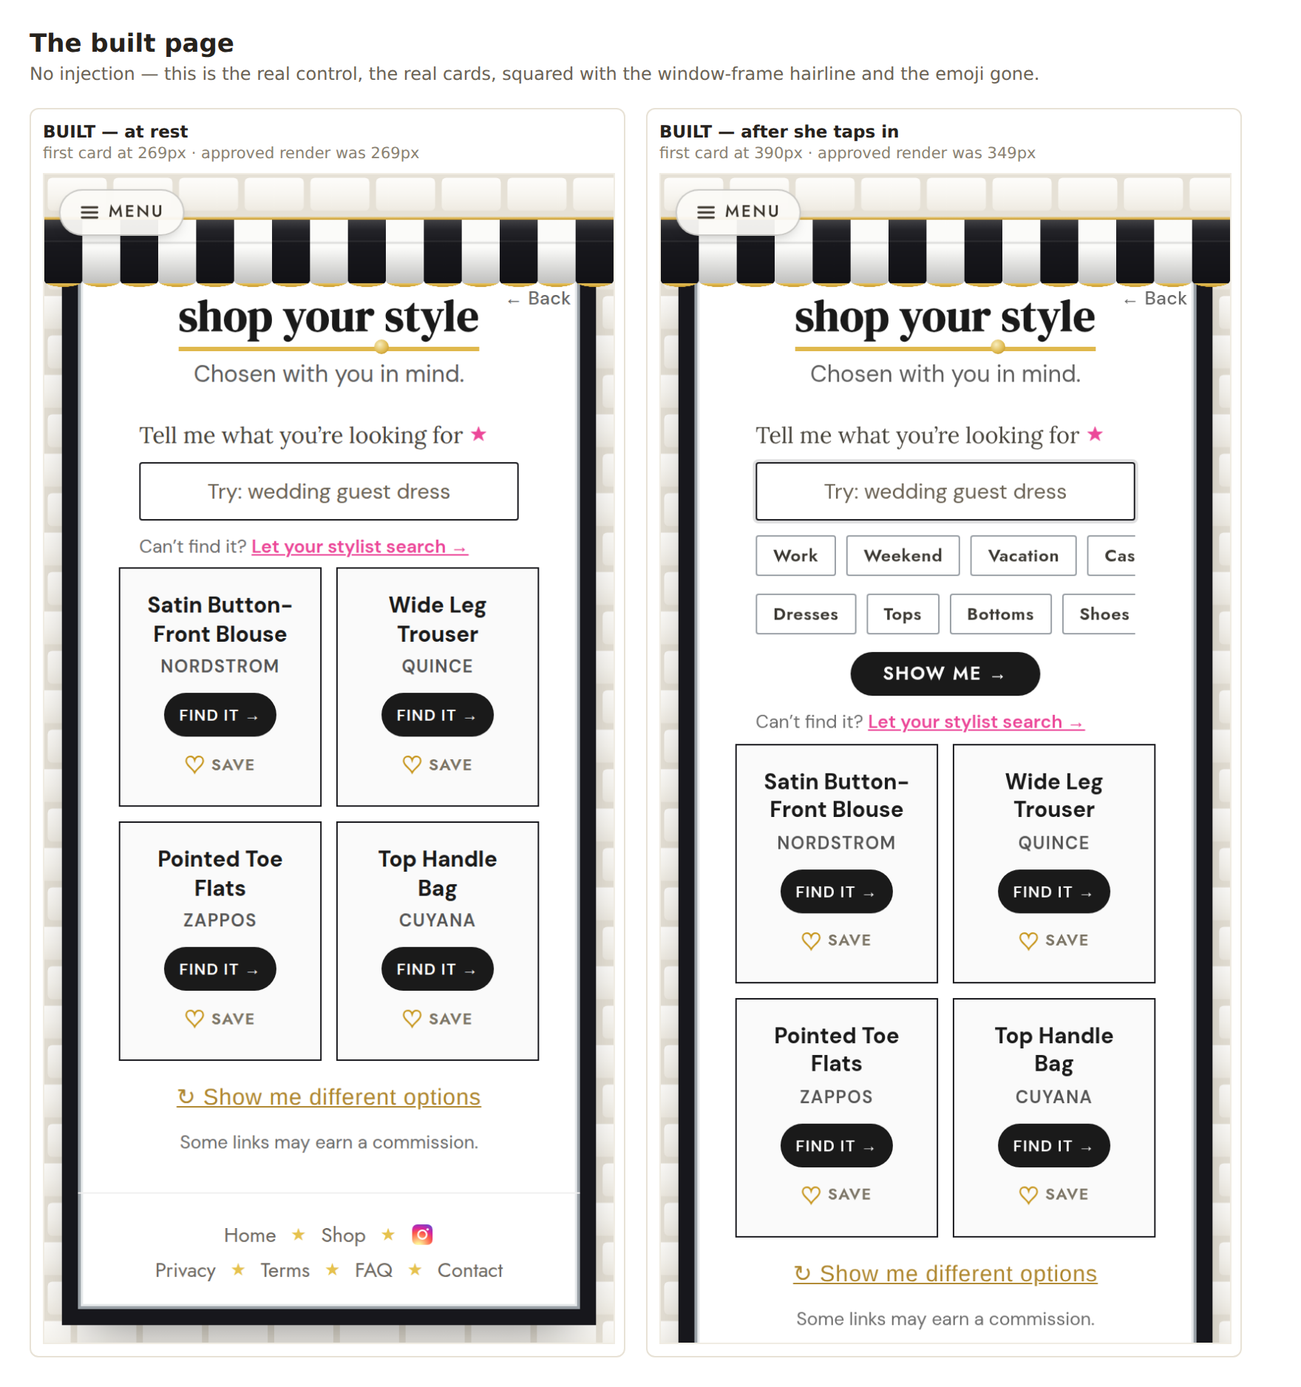
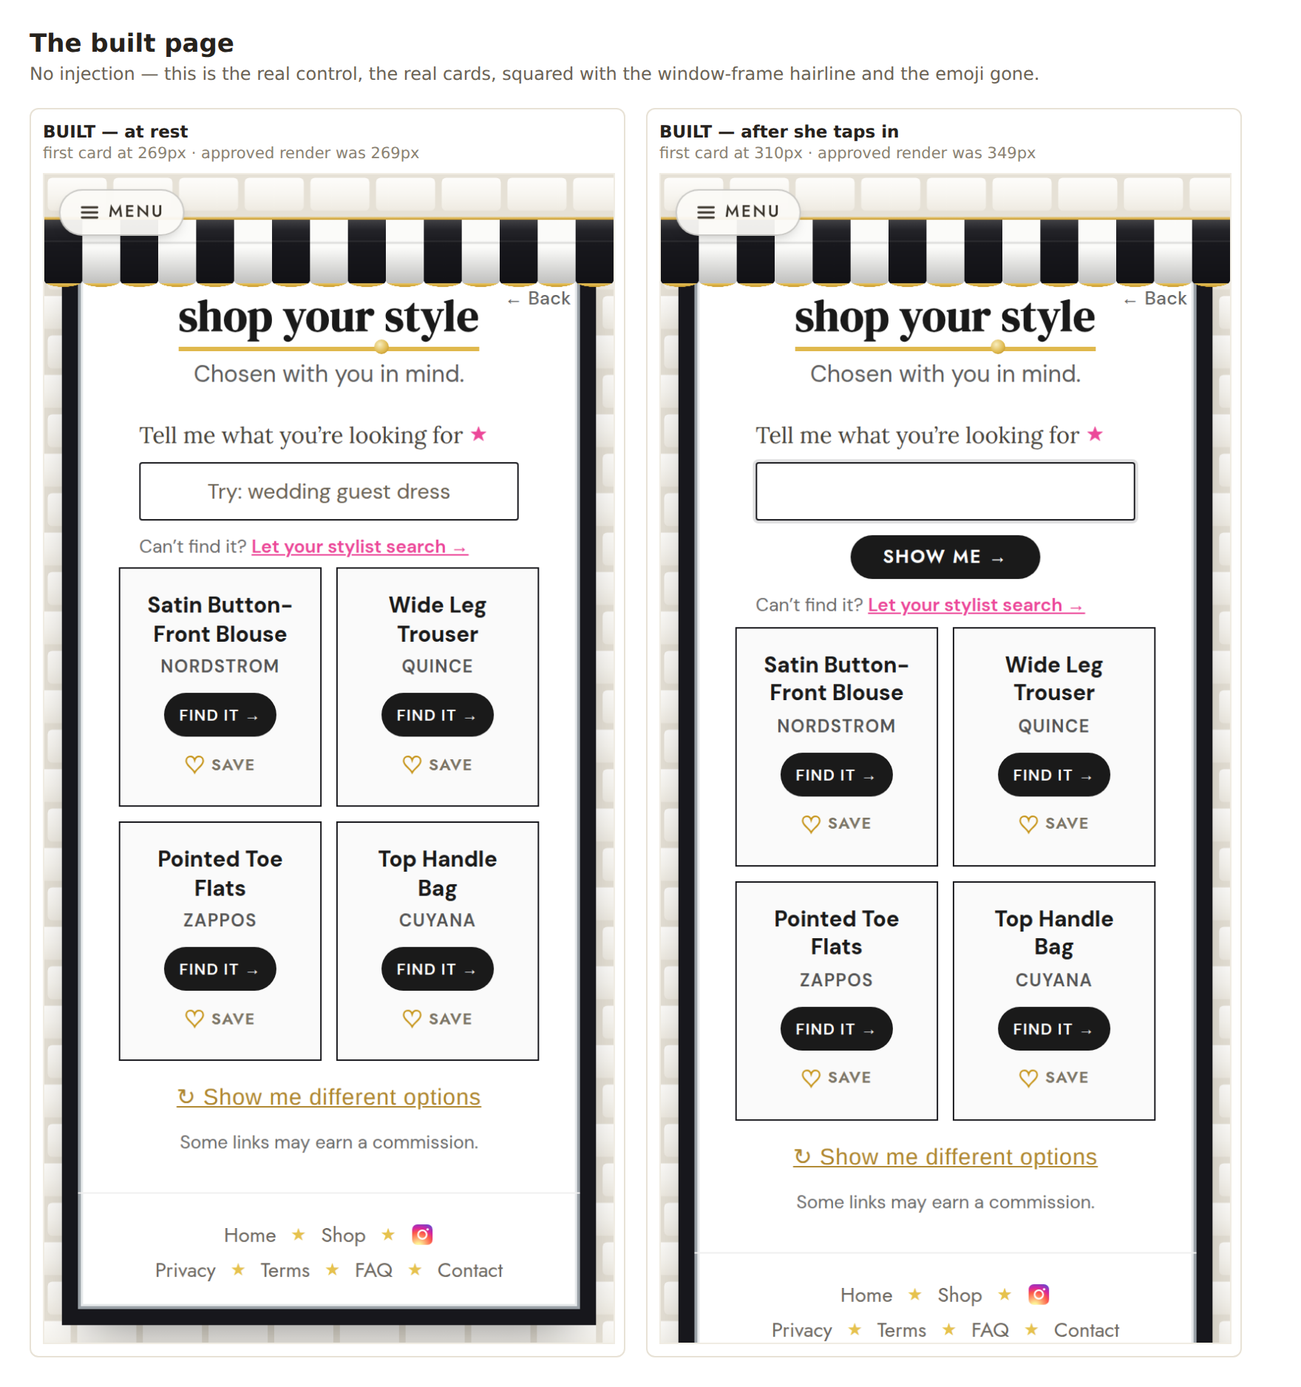
Five fixes from her live test of the ask
1. THE REAL ONE. She typed "bags" and got a dress, trousers, heels, rings and a
blazer. One bag out of six. The cause was not a weak rule, it was a CONTRADICTING
one sitting directly beneath it: "- Mix categories and price points across the 6
items". Telling the model an ask "outranks variety" while the next bullet demands
variety is an argument, not a rule. So the bullet is now REPLACED when she asks,
and the opening sentence reframes the whole task rather than adding a rule at the
bottom. Proven against the live model, two runs each: "bags" returns six bags, "a
floor length gown" six gowns, "white tops under $100" six white tops, and the
no-ask control still returns a proper mix.

2. The control was visible while the star span, so she was offered a box she
could not usefully use yet. It hides with the Back button and the footer now and
comes back with them. This was written into the plan and then not done.

3. The chips are GONE, her call. She typed "white linen dress", tapped Vacation,
and the chip OVERWROTE her sentence. Rather than teach it to append she chose to
drop them and let the rotating example carry the same vocabulary, so occasions
and categories now ride the ring: eleven examples instead of seven.

4. The example clears the moment she taps in and returns if she leaves the box
empty. A centred placeholder really does read as text already in the box.

5. The tapped state drops from 349px to 310px with the chip rows gone.

63 checks green.
[…]

Changed region(s): [[0.5625, 0.3401, 0.875, 0.9584]]

diff --git a/index.html b/index.html
@@ -1077,16 +1077,11 @@ html.edit-velvet,html.edit-velvet body{background:#0E7F8C}
    pass found the add-your-own placeholder at 2.73:1 and it was the one thing
    telling her the field existed. An invitation, not a hint. */
 #s-shopstyle #ssAskIn::placeholder{color:#6b6355}
-#s-shopstyle .sa-row{display:flex;gap:7px;overflow-x:auto;padding:2px 0;flex-wrap:nowrap;margin-top:8px;-webkit-overflow-scrolling:touch}
-/* Her pick from five rendered options, 2026-08-21: the gold chips read "bronzey"
-   and fought the screen — her own store-window reasoning one element further on.
-   #9AA0A6 is the display-case silver already used on the Contact page cards, so it
-   is not a new colour either, and it sits deliberately QUIETER than the black box
-   above: the box is the thing to use, the chips only help her fill it. Label ink
-   11.33:1, against gold's 5.05:1.
-   ⚠ Outline, NOT filled: solid black chips compete with the SHOW ME button directly
-   beneath them and the Find it pills below that. Rendered and rejected. */
-#s-shopstyle .sa-chip{font:600 12px/1 'Jost',sans-serif;letter-spacing:.03em;color:#3d3a34;padding:7px 11px;border:1px solid #9AA0A6;border-radius:2px;background:#fff;white-space:nowrap;cursor:pointer;flex:0 0 auto;-webkit-tap-highlight-color:transparent}
+/* The chip rows were built, rendered five ways, coloured to her pick, and then
+   RETIRED on her live test the same day: she typed "white linen dress", tapped
+   Vacation, and the chip overwrote her sentence. Her call was to drop them rather
+   than teach them to append, and to let the rotating example carry the same
+   vocabulary instead — which is why the ring now holds occasions and categories. */
 #s-shopstyle .sa-go{display:block;margin:10px auto 0;background:#1a1a1a;color:#fff;border:none;border-radius:20px;padding:9px 22px;font:600 12.5px/1 'Jost',sans-serif;letter-spacing:.07em;cursor:pointer}
 #s-shopstyle .sa-esc{font-size:12.5px;color:#6e6e6e;margin-top:9px;line-height:1.55}
 #s-shopstyle .sa-esc span{color:#EC4899;font-weight:600;text-decoration:underline;cursor:pointer}
@@ -3921,10 +3916,18 @@ body.ss-play .hm-entrance{animation:ssOverlayOut .55s ease 1.6s forwards}
          mark system: the heart means SHE is speaking, the star means the stylist is
          working — which is why the loading star on this same screen is pink. -->
     <div class="sa-vox">Tell me what you&rsquo;re looking for<svg class="sa-star" viewBox="0 0 76 76" aria-hidden="true"><polygon points="38,4 46,25 68,25 50.5,38.5 57.5,60 38,47 18.5,60 25.5,38.5 8,25 30,25" fill="#EC4899" stroke="#EC4899" stroke-width="2" stroke-linejoin="round"/></svg></div>
-    <input id="ssAskIn" type="text" maxlength="80" autocomplete="off" enterkeyhint="go" aria-label="Tell me what you're looking for" onfocus="_ssAskOpen(true)" oninput="_ssAskOpen(true)" onkeydown="if(event.key==='Enter'){event.preventDefault();ssAskGo()}">
+    <!-- ⚠ The example clears the moment she taps in, and comes back if she leaves the
+         box empty. Her live test, 2026-08-21: "when I put the cursor inside the box to
+         start typing I would like the Try: jeans to go away. It stays there until I
+         start typing and didn't let me delete it so that felt very awkward." A centred
+         placeholder really does read as text that is already in the box. -->
+    <input id="ssAskIn" type="text" maxlength="80" autocomplete="off" enterkeyhint="go" aria-label="Tell me what you're looking for" onfocus="_ssAskFocus(1)" onblur="_ssAskFocus(0)" onkeydown="if(event.key==='Enter'){event.preventDefault();ssAskGo()}">
+    <!-- The chip rows are GONE, her call after testing them: she typed "white linen
+         dress", tapped Vacation, and the chip REPLACED her sentence. A control that
+         silently destroys what she just wrote is worse than no control. Rather than
+         teach it to append, she chose to drop the chips and let the rotating example
+         carry the same vocabulary — so occasions and categories now ride the ring. -->
     <div id="ssAskMore" style="display:none">
-      <div class="sa-row" id="ssAskOcc"></div>
-      <div class="sa-row" id="ssAskCat"></div>
       <button class="sa-go" onclick="ssAskGo()">SHOW ME &rarr;</button>
     </div>
     <div class="sa-esc">Can&rsquo;t find it? <span onclick="openChat()">Let your stylist search &rarr;</span></div>
@@ -6906,9 +6909,13 @@ function styleNudgeSkip(){try{localStorage.setItem('ss_stylenudge','1')}catch(e)
 var _ASK_RING=[
   'Try: wedding guest dress',
   'Try: white tops under $100',
+  'Try: something for vacation',
   'Try: jeans',
+  'Try: work outfits',
   'Try: tan sandals',
+  'Try: something formal',
   'Try: a floor length gown',
+  'Try: weekend casual',
   'Try: silk blouse',
   'Try: tote bag'
 ];
@@ -6917,13 +6924,6 @@ var _ASK_RING=[
 // what makes "For an event" safe rather than vague: an event is a garden party
 // or a black-tie gala, so she finishes the sentence instead of the model guessing
 // a formality level. It also keeps one code path instead of two.
-// ⭐ Both rows are hers too. ⚠ Note what she did to the occasion row: "For an event"
-// is GONE, replaced by "Something formal" — that was the chip flagged as ambiguous
-// (a garden party and a black-tie gala are both events) and she resolved it by naming
-// the FORMALITY instead of the occasion. Sharper than any wording tweak would have
-// been. She also swapped "Jackets" for "Accessories" in the category row.
-var _ASK_OCC=['Work','Weekend','Vacation','Casual life','Something formal'];
-var _ASK_CAT=['Dresses','Tops','Bottoms','Shoes','Bags','Accessories'];
 // ⚠ SCOPE OF THE ASK, and it matters: it survives "Show me different options"
 // (a refresh of "floor length gown" must return more gowns, not six random
 // things), but it is CLEARED every time the screen is opened. _openShopStyleNow
@@ -6931,11 +6931,6 @@ var _ASK_CAT=['Dresses','Tops','Bottoms','Shoes','Bags','Accessories'];
 // quietly colour her shopping for weeks.
 var _ssAsk='';
 function _askClean(s){return String(s||'').replace(/[\r\n"]+/g,' ').replace(/\s+/g,' ').trim().slice(0,80);}
-function _askChipsHtml(a){return a.map(function(c){
-  // onmousedown preventDefault holds focus in the box, so the keyboard does not
-  // drop away the moment she taps a chip and she can carry on typing.
-  return '<span class="sa-chip" data-c="'+_esc(c)+'" onmousedown="event.preventDefault()" onclick="ssAskChip(this.dataset.c)">'+_esc(c)+'</span>';
-}).join('');}
 function _syncShopAsk(){
   var el=document.getElementById('ssAsk');if(!el)return;
   _ssAsk='';
@@ -6948,7 +6943,7 @@ function _syncShopAsk(){
   if(inp){
     var i=0;try{i=parseInt(localStorage.getItem('ss_askrot'),10)||0}catch(e){}
     i=((i%_ASK_RING.length)+_ASK_RING.length)%_ASK_RING.length;
-    inp.placeholder=_ASK_RING[i];
+    inp.placeholder=_ASK_RING[i];inp.dataset.eg=_ASK_RING[i];
     // Advanced HERE, on open, and never in _shopStyleGen — so tapping refresh
     // cannot shuffle the placeholder under her fingers (the same reasoning that
     // keeps the subtitle still on a refresh).
@@ -6958,17 +6953,14 @@ function _syncShopAsk(){
   _ssAskOpen(false);
 }
 function _ssAskOpen(on){
-  var m=document.getElementById('ssAskMore');if(!m)return;
-  m.style.display=on?'':'none';
-  if(!on)return;
-  var occ=document.getElementById('ssAskOcc'),cat=document.getElementById('ssAskCat');
-  if(occ&&!occ.dataset.built){occ.innerHTML=_askChipsHtml(_ASK_OCC);occ.dataset.built='1';}
-  if(cat&&!cat.dataset.built){cat.innerHTML=_askChipsHtml(_ASK_CAT);cat.dataset.built='1';}
+  var m=document.getElementById('ssAskMore');if(m)m.style.display=on?'':'none';
 }
-function ssAskChip(t){
+// The example clears on focus and returns if she leaves the box empty. A centred
+// placeholder reads as text already typed, which is exactly how it felt to her.
+function _ssAskFocus(on){
   var inp=document.getElementById('ssAskIn');if(!inp)return;
-  inp.value=String(t||'').toLowerCase()+' ';
-  try{inp.focus();inp.setSelectionRange(inp.value.length,inp.value.length);}catch(e){}
+  if(on){inp.dataset.eg=inp.placeholder||inp.dataset.eg||'';inp.placeholder='';_ssAskOpen(true);}
+  else if(!inp.value.trim()){inp.placeholder=inp.dataset.eg||'';}
 }
 function ssAskGo(){
   var scr=document.getElementById('s-shopstyle');
@@ -6986,6 +6978,24 @@ function ssAskGo(){
 // ⭐ The range clause is the answer to "is 'for an event' too vague?" — a broad
 // ask is covered ACROSS the six rather than guessed at once, so ambiguity becomes
 // a spread she can choose from instead of a wrong single answer.
+// 🚨 HER LIVE TEST FOUND THIS AND IT IS THE REAL ONE: she typed "bags" and got a
+// dress, trousers, heels, rings and a blazer. ONE bag out of six.
+// The cause was not a weak rule, it was a CONTRADICTING one sitting directly beneath
+// it: "- Mix categories and price points across the 6 items". Telling the model the
+// ask "outranks variety" while the very next bullet demands variety is not a rule,
+// it is an argument. So when there is an ask the bullet is REPLACED, and the task is
+// reframed in the opening sentence too — placement carries as much weight as wording
+// here, the same lesson as the work-appropriate dresses definition.
+function _mixRule(){
+  return _ssAsk
+    ? '- Vary the price points and the stores across the 6, but every single one must be the thing she asked for\n'
+    : '- Mix categories and price points across the 6 items\n';
+}
+function _askedForLead(){
+  return _ssAsk
+    ? 'This woman is looking for: "'+_ssAsk+'". Suggest 6 specific shoppable pieces that are exactly that, chosen to suit her style.'
+    : 'Based on this woman\'s style, suggest 6 specific shoppable items she would genuinely love.';
+}
 function _askedForRule(){
   if(!_ssAsk)return '';
   return '- SHE HAS ASKED FOR SOMETHING SPECIFIC: "'+_ssAsk+'". Every one of the 6 picks must answer that ask directly, and this outranks mixing categories for variety. If she named a garment, return that garment. If she named a price, stay under it. If she named an occasion, dress her for it, and when that occasion could mean several levels of formality (an event can be a garden party or a black tie gala), COVER THE RANGE across the 6 rather than guessing one point on it. This rule is absolute.\n';
@@ -7019,6 +7029,11 @@ async function _shopStyleGen(){
   var talk=document.querySelector('#s-shopstyle .ss-shop-talk');if(talk)talk.classList.remove('on');
   var gf=document.querySelector('.quiz-footer');if(gf)gf.style.display='none';
   var bk=document.querySelector('#s-shopstyle .top-back-wrap');if(bk)bk.style.display='none';
+  // Her live test, 2026-08-21: "while the star is spinning I can see the Tell me what
+  // you're looking for and the can't find it? But the user needs to wait a moment."
+  // Offering her a box she cannot usefully use yet reads as broken. Hidden with the
+  // Back button and the footer, restored with them — and only in quiz mode.
+  var askEl=document.getElementById('ssAsk');if(askEl)askEl.style.display='none';
   cont.innerHTML='<div class="shop-loading"><div class="shop-star-wrap">'+(_isWL?_SHOP_BAG_SVG:_SHOP_STAR_SVG)+'</div><span id="shopLoadMsg">'+_pickLoadMsg()+'</span></div>';
   _startShopMsgs();
   var basis;
@@ -7049,7 +7064,7 @@ async function _shopStyleGen(){
     prompt='You are Catherine, a personal stylist. This woman shared a photo of an outfit she already owns and loves. Suggest 6 specific shoppable pieces that MIRROR her look — more of the SAME kinds of pieces in the same spirit, so she can repeat a look she already knows is hers.\n\n'+basis+'\n'+_seenPicksLine('ss-'+_shopStyleMode)+'\nWHAT MIRRORING MEANS:\n- Every piece must be the same KIND of garment as something she is wearing, in the same silhouette family and the same energy: if she is wearing a floral midi dress, find more floral or printed midi dresses; a cropped cream jacket, more little cropped jackets like it.\n- Weight the mix toward her main piece: at least 3 of the 6 should echo the biggest garment in her look, the rest can echo her other pieces.\n- Vary the colors and prints within her palette so the six are sisters of her look, not six copies of one item.\n- These are SWAPS and REPEATS, never add-ons: NO bags, jewelry, belts or other accessories unless that accessory is itself the heart of her look. Completing the look is a different button; this one multiplies it.\n\nFor each item provide:\n- category: one of "top","bottom","dress","jacket","shoes","bag","jewelry","activewear"\n'+_shopRules()+'\nRULES:\n- NEVER suggest anything on her never-wear list or that she listed as a hard no. Honor her exact words. This rule is absolute.\n- Name each piece plainly and beautifully, leading with the piece itself, print or silhouette + item, like "Floral Flutter-Sleeve Midi Dress" — never vague, never led by a color unless color is genuinely the point of that piece (and then the search carries the same color), never promising a detail its own search does not carry (the name is the search, written beautifully), and never an imaginary exact product the search cannot deliver\n\nRespond with ONLY valid JSON:\n{"items":[{"category":"dress","name":"Item Name","search":"short search term","store":"Store Name"}]}';
   }else{
     maxTok=700;
-    prompt='You are Catherine, a personal stylist. Based on this woman\'s style, suggest 6 specific shoppable items she would genuinely love.\n\n'+basis+'\n'+_seenPicksLine('ss-'+_shopStyleMode)+'\nFor each item provide:\n- category: one of "top","bottom","dress","jacket","shoes","bag","jewelry","activewear"\n'+_shopRules()+'\nRULES:\n- Match her style\n- NEVER suggest anything on her never-wear list or that she listed as a hard no. Honor her exact words. This rule is absolute.\n'+_colorPrefRule()+_askedForRule()+'- Mix categories and price points across the 6 items\n- Name each piece plainly and beautifully, leading with the piece itself, fabric or silhouette + item, like "Mock-Neck Knit Tank" — never vague ("a nice top"), never led by a color unless color is genuinely the point of that piece (and then the search carries the same color), never promising a detail its own search does not carry (the name is the search, written beautifully), and never an imaginary exact product the search cannot deliver\n\nRespond with ONLY valid JSON:\n{"items":[{"category":"top","name":"Item Name","search":"short search term","store":"Store Name"}]}';
+    prompt='You are Catherine, a personal stylist. '+_askedForLead()+'\n\n'+basis+'\n'+_seenPicksLine('ss-'+_shopStyleMode)+'\nFor each item provide:\n- category: one of "top","bottom","dress","jacket","shoes","bag","jewelry","activewear"\n'+_shopRules()+'\nRULES:\n- Match her style\n- NEVER suggest anything on her never-wear list or that she listed as a hard no. Honor her exact words. This rule is absolute.\n'+_colorPrefRule()+_askedForRule()+_mixRule()+'- Name each piece plainly and beautifully, leading with the piece itself, fabric or silhouette + item, like "Mock-Neck Knit Tank" — never vague ("a nice top"), never led by a color unless color is genuinely the point of that piece (and then the search carries the same color), never promising a detail its own search does not carry (the name is the search, written beautifully), and never an imaginary exact product the search cannot deliver\n\nRespond with ONLY valid JSON:\n{"items":[{"category":"top","name":"Item Name","search":"short search term","store":"Store Name"}]}';
   }
   try{
     var r=await fetch("/.netlify/functions/style-ai",{method:"POST",headers:{"Content-Type":"application/json"},body:JSON.stringify({max_tokens:maxTok,messages:[{role:"user",content:prompt}]})});
@@ -7082,11 +7097,13 @@ async function _shopStyleGen(){
     if(talk)talk.classList.add('on');
     if(gf)gf.style.display='';
     if(bk)bk.style.display='';
+    if(askEl&&_shopStyleMode==='quiz')askEl.style.display='';
   }catch(e){
     _stopShopMsgs();if(scr)scr.classList.remove('thinking');if(lg)lg.textContent=_isWL?'shop your list':'shop your style';
     cont.innerHTML='<div class="shop-loading">Couldn\'t load options right now.</div><div style="text-align:center;margin-top:8px"><button class="btn-pink" onclick="_shopStyleGen()" style="max-width:200px">Try again</button></div>';
     if(gf)gf.style.display='';
     if(bk)bk.style.display='';
+    if(askEl&&_shopStyleMode==='quiz')askEl.style.display='';
   }
 }
 var _shopMsgT=null;

diff --git a/scratchpad/shopask.js b/scratchpad/shopask.js
@@ -117,21 +117,21 @@ r = await pg.evaluate(() => ({
   occ: [...document.querySelectorAll('#ssAskOcc .sa-chip')].map(e => e.textContent),
   cat: [...document.querySelectorAll('#ssAskCat .sa-chip')].map(e => e.textContent),
 }));
-ok('both chip rows appear on focus', r.shown);
-// Her rows, 2026-08-21. "For an event" is deliberately NOT among them: she replaced
-// it with "Something formal", naming the formality instead of the occasion, which is
-// what made the ambiguous chip precise.
-ok('the occasion row is hers, and names formality not occasion',
-   r.occ.join('|') === 'Work|Weekend|Vacation|Casual life|Something formal', r.occ.join('|'));
-ok('no "For an event" chip survives', !r.occ.includes('For an event'));
-ok('the category row is hers', r.cat.join('|') === 'Dresses|Tops|Bottoms|Shoes|Bags|Accessories', r.cat.join('|'));
-await pg.click('#ssAskOcc .sa-chip');
-r = await pg.evaluate(() => ({ v: document.getElementById('ssAskIn').value,
-  focused: document.activeElement && document.activeElement.id === 'ssAskIn' }));
-// A chip FILLS rather than fires, so she can finish the sentence herself instead of
-// the model guessing what she meant.
-ok('the chip fills the box rather than running a search', /^work\s*$/.test(r.v), JSON.stringify(r.v));
-ok('...and focus stays put so the keyboard does not drop', r.focused);
+ok('the SHOW ME button appears on focus', r.shown);
+// The chip rows are GONE, her call after live testing: she typed "white linen dress",
+// tapped Vacation, and the chip OVERWROTE her sentence. A control that silently
+// destroys what she just wrote is worse than no control.
+ok('no chips survive to overwrite what she typed', r.occ.length === 0 && r.cat.length === 0);
+// Her other live catch: a centred placeholder reads as text already in the box.
+r = await pg.evaluate(() => ({ ph: document.getElementById('ssAskIn').placeholder }));
+ok('the example clears the moment she taps in', r.ph === '', JSON.stringify(r.ph));
+await pg.evaluate(() => document.getElementById('ssAskIn').blur());
+await pg.waitForTimeout(150);
+ok('...and comes back if she leaves the box empty',
+   /^Try: /.test(await pg.evaluate(() => document.getElementById('ssAskIn').placeholder)));
+await pg.fill('#ssAskIn', 'white linen dress');
+ok('what she typed is never replaced by anything',
+   (await pg.inputValue('#ssAskIn')) === 'white linen dress');
 
 // ── 4. Her ask reaches the picks ────────────────────────────────────────────
 console.log('\n4. What she types reaches the prompt');
@@ -146,6 +146,15 @@ ok('it is stated as an absolute rule, where the hard rules live', /This rule is 
 // which is what makes "For an event" a good chip instead of a vague one.
 ok('a broad ask is covered as a RANGE, not guessed', /COVER THE RANGE across the 6/.test(p));
 
+// 🚨 Her live test: she typed "bags" and got a dress, trousers, heels, rings and a
+// blazer. The ask was not weak, it was contradicted by the bullet directly beneath it.
+ok('the ask reframes the whole task, not just a rule at the bottom',
+   /is looking for: "floor length gown"\. Suggest 6 specific shoppable pieces that are exactly that/.test(p));
+ok('the contradicting "mix categories" bullet is REMOVED when she asks',
+   !/Mix categories and price points/.test(p));
+ok('...replaced by one that varies price without varying the piece',
+   /every single one must be the thing she asked for/.test(p));
+
 console.log('\n5. The ask survives a refresh but never outlives the visit');
 prompts.length = 0;
 await pg.click('.shop-refresh-btn');
@@ -159,6 +168,12 @@ ok('re-opening the screen clears it', !/floor length gown/.test(prompts.join('\n
 ok('...and the box is empty again', (await pg.inputValue('#ssAskIn')) === '');
 
 // ── 6. The veto trap ────────────────────────────────────────────────────────
+prompts.length = 0;
+await openShop(pg, 'quiz');   // no ask this time
+await pg.waitForTimeout(300);
+ok('with NO ask, the normal mix-categories bullet is back',
+   /Mix categories and price points/.test(prompts.join('\n')));
+
 console.log('\n6. Her own request is not eaten by the search veto');
 // _SEARCH_VETO holds 'wrap'. Without passing her ask into filterNeverWear, a woman
 // typing "wrap dress" would have every pick silently dropped and see an empty shelf.
@@ -273,7 +288,7 @@ const paint = await pg.evaluate(() => {
   const bgOf = el => { let n = el; while (n) { const c = getComputedStyle(n).backgroundColor;
     if (c && !/rgba\(0, 0, 0, 0\)|transparent/.test(c)) return c; n = n.parentElement; } return 'rgb(255,255,255)'; };
   const g = s => { const e = document.querySelector(s); return e ? { fg: getComputedStyle(e).color, bg: bgOf(e) } : null; };
-  return { vox: g('#ssAsk .sa-vox'), esc: g('#ssAsk .sa-esc'), chip: g('#ssAsk .sa-chip') };
+  return { vox: g('#ssAsk .sa-vox'), esc: g('#ssAsk .sa-esc'), go: g('#ssAsk .sa-go') };
 });
 for (const [k, v] of Object.entries(paint)) {
   if (!v) { ok(k + ' measured', false); continue; }
